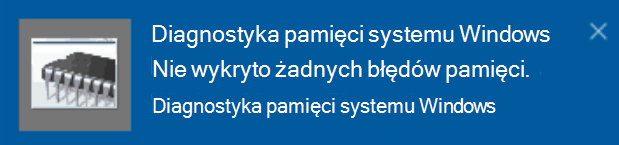
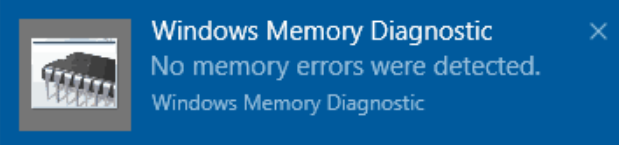
commit translated contents

Changed region(s): [[0.2456, 0.1379, 0.8901, 0.331], [0.2456, 0.3586, 0.8901, 0.5793], [0.2456, 0.6345, 0.7981, 0.8276]]

diff --git a/AlchemyInsights/sharepoint-profile-picture-sync.md b/AlchemyInsights/sharepoint-profile-picture-sync.md
@@ -11,24 +11,24 @@ ms.assetid: 6b695be8-eaf5-44ff-b0ae-1e0d89e7ab36
 ms.custom:
 - "1828"
 - "9000231"
-ms.openlocfilehash: 9ee728fa9eefc882d220d8484c8c92d4d8c9af4d
-ms.sourcegitcommit: c6692ce0fa1358ec3529e59ca0ecdfdea4cdc759
+ms.openlocfilehash: 5d07d8e9206b4b7d0756277409d48b0cd299e5cf0fd7261e6c0ad75dfe8648f1
+ms.sourcegitcommit: b5f7da89a650d2915dc652449623c78be6247175
 ms.translationtype: MT
 ms.contentlocale: pl-PL
-ms.lasthandoff: 09/15/2020
-ms.locfileid: "47770597"
+ms.lasthandoff: 08/05/2021
+ms.locfileid: "53957443"
 ---
-# <a name="when-do-my-profile-changes-sync-to-the-sharepoint-user-profile-application"></a>Kiedy zmiany w profilu są synchronizowane z aplikacją profilu użytkownika programu SharePoint?
+# <a name="when-do-my-profile-changes-sync-to-the-sharepoint-user-profile-application"></a>Kiedy mój profil zmieni się na zsynchronizowany z aplikacją SharePoint profilu użytkownika?
 
-Synchronizacja obrazów profilu w usłudze SharePoint Online wymaga wykonania czynności użytkownika w celu rozpoczęcia synchronizacji zdjęcia. Nie istnieje automatyczna synchronizacja zdjęć z usługą SharePoint Online. Usługa SharePoint Online synchronizuje tylko zdjęcia z usługi Exchange Online, a nie usługi Azure Active Directory.
+Synchronizacja obrazów profilu SharePoint w trybie online wymaga działania użytkownika w celu zainicjowania synchronizacji jego zdjęcia. Nie ma automatycznej synchronizacji zdjęć z usługą SharePoint Online. SharePoint Aplikacja Online synchronizuje tylko zdjęcia z Exchange Online, a nie Azure Active Directory.
 
-Jeśli użytkownik nigdy nie wykonał akcji, która może monitować o zsynchronizowanie lub zaktualizował swój obraz profilu, a nowy plik nie jest wyświetlany w usłudze SharePoint Online, może być konieczne wyświetlenie monitu o zsynchronizowanie. Można to zrobić w następujący sposób:
+Jeśli użytkownik nigdy nie wykonał akcji, która spowoduje monitowanie o synchronizację lub zaktualizował swoje zdjęcie profilowe, a nowy obraz nie jest wyświetlany w aplikacji SharePoint Online, może być konieczne jego monit o zsynchronizowanie. Oto, jak mogą to zrobić:
 
-1. Otwórz przeglądarkę internetową w sesji w trybie online lub incognito, a następnie [Przejdź do Office.com](https://www.office.com/).
+1. Otwórz przeglądarkę internetową w sesji In-Private lub incognito i przejdź do [witryny Office.com.](https://www.office.com/)
 
-2. Zaloguj się przy użyciu konta służbowego i kliknij kafelek OneDrive lub SharePoint.
+2. Zaloguj się za pomocą konta służbowego i kliknij kafelek numer OneDrive lub SharePoint służbowego.
 
-3. [Dodaj swoje zdjęcie profilu do programu Microsoft 365](https://support.office.com/article/Add-your-profile-photo-to-Office-365-2eaf93fd-b3f1-43b9-9cdc-bdcd548435b7).
+3. [Dodaj zdjęcie profilowe do Microsoft 365](https://support.office.com/article/Add-your-profile-photo-to-Office-365-2eaf93fd-b3f1-43b9-9cdc-bdcd548435b7).
 
 [Informacje o synchronizacji obrazów profilu w programie Microsoft 365](https://support.office.com/article/Information-about-user-profile-synchronization-in-SharePoint-Online-177eb196-5887-43c9-84c3-b98a43d35129)
 

diff --git a/AlchemyInsights/sharepoint-onedrive-sync-files-mac.md b/AlchemyInsights/sharepoint-onedrive-sync-files-mac.md
@@ -1,5 +1,5 @@
 ---
-title: Instalowanie, Konfigurowanie i synchronizowanie plików usługi OneDrive lub programu SharePoint na komputerze Mac
+title: Instalowanie, konfigurowanie i synchronizowanie plików OneDrive i SharePoint na komputerze Mac
 ms.author: pebaum
 author: pebaum
 ms.date: 04/21/2020
@@ -9,21 +9,21 @@ ms.service: o365-administration
 ROBOTS: NOINDEX, NOFOLLOW
 localization_priority: Normal
 ms.assetid: 89b29dd9-edfe-49a4-84eb-5dc270d64526
-ms.openlocfilehash: 6ad860d51d2ce82c7500a663f83234a2961f08b2
-ms.sourcegitcommit: c6692ce0fa1358ec3529e59ca0ecdfdea4cdc759
+ms.openlocfilehash: 9e40f43435a069e150bc95976f8c04a09fa60244cad268f283f326c1df363704
+ms.sourcegitcommit: b5f7da89a650d2915dc652449623c78be6247175
 ms.translationtype: MT
 ms.contentlocale: pl-PL
-ms.lasthandoff: 09/14/2020
-ms.locfileid: "47665548"
+ms.lasthandoff: 08/05/2021
+ms.locfileid: "53957515"
 ---
-# <a name="install-setup-and-sync-onedrive-or-sharepoint-files-on-mac"></a>Instalowanie, Konfigurowanie i synchronizowanie plików usługi OneDrive lub programu SharePoint na komputerze Mac 
+# <a name="install-setup-and-sync-onedrive-or-sharepoint-files-on-mac"></a>Instalowanie, konfigurowanie i synchronizowanie plików OneDrive i SharePoint na komputerze Mac 
 
-Instalowanie, Konfigurowanie i synchronizowanie plików usługi OneDrive lub programu SharePoint na komputerze Mac za pomocą instrukcji z [synchronizowania plików za pomocą klienta synchronizacji usługi OneDrive w systemie Mac OS X](https://support.office.com/article/sync-files-with-the-onedrive-sync-client-on-mac-os-x-d11b9f29-00bb-4172-be39-997da46f913f).
+Zainstaluj, skonfiguruj i synchronizuj OneDrive lub SharePoint na komputerze Mac, zgodnie z instrukcjami z tematu Synchronizowanie plików za pomocą klienta synchronizacja usługi OneDrive systemu [Mac OS X.](https://support.office.com/article/sync-files-with-the-onedrive-sync-client-on-mac-os-x-d11b9f29-00bb-4172-be39-997da46f913f)
 
-Jeśli aplikacja OneDrive jest zainstalowana i skonfigurowana na komputerze Mac, ale użytkownicy napotykają problemy z synchronizacją, zobacz [Rozwiązywanie problemów z synchronizacją w usłudze OneDrive (Mac)](https://support.office.com/article/fix-onedrive-sync-problems-on-a-mac-af3012d7-13ec-4ac9-bbb1-ebcd2a0cd756).
+Jeśli aplikacja OneDrive zainstalowana i zainstalowana na komputerze Mac, ale użytkownicy mają problemy z synchronizacją, zobacz Rozwiązywanie problemów z synchronizacją w [programie OneDrive (Mac).](https://support.office.com/article/fix-onedrive-sync-problems-on-a-mac-af3012d7-13ec-4ac9-bbb1-ebcd2a0cd756)
 
 > [!NOTE]
-> Funkcja przenoszenia znanych folderów w usłudze OneDrive dla systemu Windows jest niedostępna dla komputerów Mac.
+> Funkcja Przenoszenie znanego folderu w programie synchronizacja usługi OneDrive for Windows nie jest dostępna dla komputerów Mac.
 
 
 

diff --git a/AlchemyInsights/find-lost-or-missing-files-in-onedrive-or-sharepoint.md b/AlchemyInsights/find-lost-or-missing-files-in-onedrive-or-sharepoint.md
@@ -1,5 +1,5 @@
 ---
-title: Znajdowanie utraconych lub brakujących plików w usłudze OneDrive lub programie SharePoint
+title: Znajdowanie utraconych lub brakujących plików w OneDrive lub SharePoint
 ms.author: matteva
 author: pebaum
 manager: scotv
@@ -12,21 +12,21 @@ localization_priority: Normal
 ms.collection: Adm_O365
 ms.custom: ''
 ms.assetid: d4de6b5e-5102-4e2c-af92-1f8b049c3a02
-ms.openlocfilehash: aa0cd1e4d5e89b9fb601c37030440bdfd2b66260
-ms.sourcegitcommit: 0eb4f9bde53395b5fd4b5cd4ffc56ca96db91298
+ms.openlocfilehash: b82e3f14fa61ed9b439aa2991be18cf7a064c4a20a02f914176b1afe6eb0f83b
+ms.sourcegitcommit: b5f7da89a650d2915dc652449623c78be6247175
 ms.translationtype: MT
 ms.contentlocale: pl-PL
-ms.lasthandoff: 03/10/2021
-ms.locfileid: "50708432"
+ms.lasthandoff: 08/05/2021
+ms.locfileid: "53977379"
 ---
-# <a name="find-lost-or-missing-files-in-onedrive-or-sharepoint"></a>Znajdowanie utraconych lub brakujących plików w usłudze OneDrive lub programie SharePoint
+# <a name="find-lost-or-missing-files-in-onedrive-or-sharepoint"></a>Znajdowanie utraconych lub brakujących plików w OneDrive lub SharePoint
 
-- Sprawdź Kosz, przeglądając usługę OneDrive lub witrynę programu SharePoint w sieci Web i klikając Pozycję Kosz w okienku po lewej stronie. (Jeśli Kosz nie jest wyświetlony w okienku po lewej stronie, kliknij ikonę Ustawienia, a następnie wybierz **pozycję Zawartość witryny.** **Kosz znajduje** się po prawej stronie paska poleceń u góry). 
+- Sprawdź Kosz, przeglądając zawartość OneDrive lub witryny SharePoint w sieci Web, a następnie klikając pozycję Kosz w okienku po lewej stronie. (Jeśli w okienku po lewej stronie nie widzisz kosza, kliknij ikonę kosza Ustawienia a następnie wybierz **pozycję Zawartość witryny**. **Kosz znajduje** się po prawej stronie paska poleceń u góry). 
     
 - Jeśli synchronizujesz pliki na komputerze, sprawdź Kosz na komputerze. 
     
 - Jeśli nie widzisz elementu, którego szukasz, a został on ostatnio usunięty, administrator zbioru witryn może go przywrócić z Kosza zbioru witryn. Jeśli jesteś administratorem zbioru witryn, zobacz Przywracanie usuniętych elementów [z Kosza zbioru witryn.](https://support.microsoft.com/office/restore-items-in-the-recycle-bin-that-were-deleted-from-sharepoint-or-teams-6df466b6-55f2-4898-8d6e-c0dff851a0be)
     
-[Więcej pomocy dotyczącej przywracania usuniętych plików i folderów w usłudze OneDrive](https://go.microsoft.com/fwlink/?linkid=872872)
+[Więcej pomocy dotyczącej przywracania usuniętych plików i folderów w OneDrive](https://go.microsoft.com/fwlink/?linkid=872872)
   
 

diff --git a/AlchemyInsights/external-user-cannot-access-content.md b/AlchemyInsights/external-user-cannot-access-content.md
@@ -12,17 +12,17 @@ ms.assetid: ''
 ms.custom:
 - "9000191"
 - "2382"
-ms.openlocfilehash: 70ae38749bde631000d373a981de2bd1be50084b
-ms.sourcegitcommit: c6692ce0fa1358ec3529e59ca0ecdfdea4cdc759
+ms.openlocfilehash: 6868d8238aa376cace020950490de22ea0fc26d05b8308bfc4d9e5f1fc992bf2
+ms.sourcegitcommit: b5f7da89a650d2915dc652449623c78be6247175
 ms.translationtype: MT
 ms.contentlocale: pl-PL
-ms.lasthandoff: 09/14/2020
-ms.locfileid: "47708621"
+ms.lasthandoff: 08/05/2021
+ms.locfileid: "53977667"
 ---
-# <a name="external-user-cannot-access-sharepoint-or-onedrive-content"></a>Użytkownik zewnętrzny nie może uzyskać dostępu do zawartości programu SharePoint ani usługi OneDrive
+# <a name="external-user-cannot-access-sharepoint-or-onedrive-content"></a>Użytkownik zewnętrzny nie może uzyskać SharePoint ani OneDrive zawartości
 
-Jeśli użytkownik został zaproszony i nie może uzyskać dostępu do zawartości, Skorzystaj z poniższych linków:
+Jeśli zaproszono użytkownika zewnętrznego, który nie może uzyskać dostępu do zawartości, spróbuj użyć poniższych linków:
 
 - [Użytkownicy zewnętrzni otrzymują błędy uprawnień podczas uzyskiwania dostępu do witryny](https://docs.microsoft.com/sharepoint/support/administration/access-denied-or-need-permission-error-sharepoint-online-or-onedrive-for-business)
-- [Błąd "zasady Twojej organizacji nie zezwalają na udostępnianie danych użytkownikom" podczas udostępniania elementu lub witryny w usłudze SharePoint Online lub OneDrive dla firm](https://docs.microsoft.com/sharepoint/support/administration/organization-policies-do-not-allow-you-to-share-with-users-error)
-- [Opcje udostępniania są wyszarzone podczas udostępniania z usługi SharePoint Online lub OneDrive](https://docs.microsoft.com/sharepoint/support/administration/sharing-options-grayed-out-when-sharing-from-sharepoint-online-or-onedrive)
+- [Błąd "Zasady organizacji nie umożliwiają udostępniania tym użytkownikom" podczas udostępniania elementu lub witryny w witrynie usługi SharePoint Online lub OneDrive dla Firm](https://docs.microsoft.com/sharepoint/support/administration/organization-policies-do-not-allow-you-to-share-with-users-error)
+- [Opcje udostępniania są wyszarowane podczas udostępniania z usługi SharePoint Online lub OneDrive](https://docs.microsoft.com/sharepoint/support/administration/sharing-options-grayed-out-when-sharing-from-sharepoint-online-or-onedrive)

diff --git a/AlchemyInsights/commercial-dialogues/recall-or-replace-an-email-message.md b/AlchemyInsights/commercial-dialogues/recall-or-replace-an-email-message.md
@@ -12,20 +12,20 @@ ms.collection: Adm_O365
 ms.custom:
 - "9000260"
 - "7257"
-ms.openlocfilehash: 46e491c51cdceaf8b46e97fbec2754f94d7ee66e
-ms.sourcegitcommit: 6312ee31561db36104f32282d019d069ede69174
+ms.openlocfilehash: b1a5ca296c62956ef0a8a95ed8ea9c967d268bcedb9cd5122b39a9678ba1f152
+ms.sourcegitcommit: b5f7da89a650d2915dc652449623c78be6247175
 ms.translationtype: MT
 ms.contentlocale: pl-PL
-ms.lasthandoff: 03/11/2021
-ms.locfileid: "50750085"
+ms.lasthandoff: 08/05/2021
+ms.locfileid: "53967199"
 ---
 # <a name="recall-or-replace-email-message"></a>Odwoływanie lub zamienianie wiadomości e-mail
 
 Możesz odwołać lub zamienić tylko wiadomości wysyłane na adresy w Twojej organizacji. Nie można na przykład odwołać wiadomości wysłanych na adres usługi Gmail.
 
-1. W okienku folderów po lewej stronie okna programu Outlook wybierz folder **Elementy** wysłane.
+1. W okienku folderów po lewej stronie Outlook wybierz folder **Elementy** wysłane.
 2. Otwórz wiadomość, którą chcesz odwołać. Należy kliknąć dwukrotnie, aby otworzyć wiadomość. Zaznaczenie wiadomości w celu jej zaznaczenia w okienku odczytu nie umożliwia jej odwołania.
 3. Na karcie **Wiadomość** wybierz pozycję **Akcje**  >  **odwołaj tę wiadomość.**
 4. Kliknij **pozycję Usuń nieprzeczytane kopie** tej wiadomości lub Usuń **nieprzeczytane kopie** i zamień je na nową wiadomość, a następnie kliknij przycisk **OK.**
 5. Jeśli wysyłasz wiadomość zastępczą, zredagotuj wiadomość, a następnie kliknij pozycję **Wyślij**.
-6. Skuteczność odwołania wiadomości lub jej niepowodzenia zależy od ustawień adresatów w programie Outlook. Instrukcje sprawdzania odwołania można znaleźć [w tym artykule.](https://support.office.com/article/recall-or-replace-an-email-message-that-you-sent-35027f88-d655-4554-b4f8-6c0729a723a0#tocheck)
+6. Skuteczność odwołania wiadomości jest uzależniona od ustawień adresata w programie Outlook. Instrukcje sprawdzania odwołania można znaleźć [w tym artykule.](https://support.office.com/article/recall-or-replace-an-email-message-that-you-sent-35027f88-d655-4554-b4f8-6c0729a723a0#tocheck)

diff --git a/AlchemyInsights/delete-site-collection-in-SharePoint.md b/AlchemyInsights/delete-site-collection-in-SharePoint.md
@@ -9,24 +9,24 @@ ms.service: o365-administration
 ROBOTS: NOINDEX, NOFOLLOW
 localization_priority: Normal
 ms.assetid: ''
-ms.openlocfilehash: 7bb2110898e8b5b9aa9a73fb04698f759b5959b4
-ms.sourcegitcommit: c6692ce0fa1358ec3529e59ca0ecdfdea4cdc759
+ms.openlocfilehash: 67d87d45af15ff2e08c585f952994fbc60c3b840f92587170c45ab3c9b53c6e2
+ms.sourcegitcommit: b5f7da89a650d2915dc652449623c78be6247175
 ms.translationtype: MT
 ms.contentlocale: pl-PL
-ms.lasthandoff: 09/14/2020
-ms.locfileid: "47731069"
+ms.lasthandoff: 08/05/2021
+ms.locfileid: "53948173"
 ---
 # <a name="delete-a-site"></a>Usuwanie witryny
 
-Usunięte witryny są przenoszone do witryn usuniętych i są zachowywane przez 93 dni. Aby usunąć witrynę, przejdź do obszaru [aktywne witryny](https://admin.microsoft.com/sharepoint?page=sitemanagement&modern=true). 
+Po usunięciu witryna jest przenoszony do folderu Usunięte witryny i jest zachowywana przez 93 dni. Aby usunąć witrynę, przejdź do strony [Aktywne witryny.](https://admin.microsoft.com/sharepoint?page=sitemanagement&modern=true) 
 
-Usunięcie witryny powoduje usunięcie wszystkich elementów, w tym:
+Usunięcie witryny powoduje usunięcie jej wszystkich elementów, w tym:
 
 - Biblioteki dokumentów i pliki.
-- Listy i dane list.
+- Listy i dane listy.
 - Ustawienia i historia witryny.
-- Wszystkie podwitryny i ich zawartość.
+- Wszelkie podwiterwny i ich zawartość.
 
-Przed usunięciem witryny należy powiadomić administratorów witryn i wszystkich jej właścicieli witryn, aby mogli przenosić ich dane do innej lokalizacji, a także poinformowanić użytkowników, że witryny zostaną usunięte.
+Przed usunięciem witryny należy powiadomić administratorów i wszystkich właścicieli podwiter, aby mieli możliwość przeniesienia danych do innej lokalizacji oraz powiadom użytkowników, kiedy witryny zostaną usunięte.
 
-Aby uzyskać więcej informacji, zobacz [usuwanie witryny](https://docs.microsoft.com/sharepoint/delete-site-collection).
+Aby uzyskać więcej informacji, [zobacz Usuwanie witryny.](https://docs.microsoft.com/sharepoint/delete-site-collection)

diff --git a/AlchemyInsights/external-sharing-with-a-team-site.md b/AlchemyInsights/external-sharing-with-a-team-site.md
@@ -9,25 +9,25 @@ ms.service: o365-administration
 ROBOTS: NOINDEX, NOFOLLOW
 localization_priority: Normal
 ms.assetid: 22a229b6-b18a-43a8-9868-b32be87bc09e
-ms.openlocfilehash: 0f5d72493c219ebc007d33d48246e0fd009c6644
-ms.sourcegitcommit: c6692ce0fa1358ec3529e59ca0ecdfdea4cdc759
+ms.openlocfilehash: fac10d862611cab95933576fde59bdaf1eb58e572d6781b087c48d2c332e205d
+ms.sourcegitcommit: b5f7da89a650d2915dc652449623c78be6247175
 ms.translationtype: MT
 ms.contentlocale: pl-PL
-ms.lasthandoff: 09/14/2020
-ms.locfileid: "47708477"
+ms.lasthandoff: 08/05/2021
+ms.locfileid: "53977703"
 ---
 # <a name="external-sharing-with-a-team-site"></a>Udostępnianie zewnętrzne w witrynie zespołu
 
-Aby włączyć udostępnianie zewnętrznego użytkownika dla witryn zespołu, wykonaj następujące czynności: 
+Aby włączyć udostępnianie witryn zespołu użytkownikom zewnętrznym, wykonaj następujące czynności: 
   
-1. W nowym centrum administracyjnym programu SharePoint kliknij pozycję **aktywne witryny**.
+1. W nowym centrum SharePoint administracyjnego kliknij pozycję **Aktywne witryny**.
   
-2. Wybierz witrynę zawierającą szablon **witryny zespołu** . 
+2. Wybierz witrynę, która zawiera **szablon Witryna** zespołu. 
   
-3. Wybierz przycisk **udostępniania** z menu u. 
+3. Wybierz przycisk **Udostępnianie** w menu u góry. 
   
- **Uwaga**: domyślnie podczas tworzenia nowoczesnej witryny zespołu opcja udostępniania zewnętrznego zostanie ustawiona na nowy i istniejący użytkownik zewnętrzny. 
+ **Uwaga:** Po utworzeniu nowoczesnej witryny zespołu opcja udostępniania zewnętrznego będzie domyślnie ustawiona na wartość Nowi i istniejący użytkownicy zewnętrzni. 
   
- **Uwaga:** Jeśli została wybrana więcej niż jedna witryna, przycisk **udostępniania** będzie wyświetlany jako wyłączony. Wybierz tylko jedną witrynę. 
+ **Uwaga:** Jeśli wybrano więcej niż jedną witrynę, **przycisk** Udostępnianie będzie wyłączony. Wybierz tylko jedną witrynę. 
   
 

diff --git a/AlchemyInsights/commercial-dialogues/onboard-a-windows-server-to-microsoft-defender-for-endpoint.md b/AlchemyInsights/commercial-dialogues/onboard-a-windows-server-to-microsoft-defender-for-endpoint.md
@@ -12,24 +12,24 @@ ms.collection: Adm_O365
 ms.custom:
 - "9000760"
 - "7391"
-ms.openlocfilehash: 51bcb58f20b9867d2b75db5ee9df1c62e8b66109
-ms.sourcegitcommit: 6312ee31561db36104f32282d019d069ede69174
+ms.openlocfilehash: 0772f67175053be2cb1e8eacece98fe68776e35800763526e3e6f4fd5375228c
+ms.sourcegitcommit: b5f7da89a650d2915dc652449623c78be6247175
 ms.translationtype: MT
 ms.contentlocale: pl-PL
-ms.lasthandoff: 03/11/2021
-ms.locfileid: "50750272"
+ms.lasthandoff: 08/05/2021
+ms.locfileid: "53967523"
 ---
 # <a name="onboard-a-windows-server-to-microsoft-defender-for-endpoint"></a>Onboard a Windows server to Microsoft Defender for Endpoint
 
-W przypadku systemu operacyjnego Windows Server program Microsoft Defender for Endpoint oferuje zaawansowane możliwości wykrywania i badania ataków. Te funkcje są udostępniane bezproblemowo za pośrednictwem konsoli Microsoft Defender Security Center.
+W przypadku systemu Windows Server program Microsoft Defender for Endpoint oferuje zaawansowane możliwości wykrywania i badania ataków. Te funkcje są zapewniane bezproblemowo za pośrednictwem Centrum zabezpieczeń usługi Microsoft Defender urządzenia.
 
-Program Defender for Endpoint obsługuje następujące wersje systemu Windows Server:
+Program Defender for Endpoint obsługuje następujące wersje programu Windows Server:
 
-- Windows Server 2008 R2 SP1
+- Windows Server 2008 R2 z dodatkiem SP1
 - Windows Server 2012 R2
 - Windows Server 2016
 - Windows Server (FTP) w wersji 1803 i nowszej
-- Windows Server 2019 lub nowszy
+- Windows Server 2019 i nowsze
 - Windows Server 2019 Core Edition
 
-Aby dowiedzieć się więcej, [zobacz:Na urządzeniach z systemem Windows do usługi Programu Microsoft Defender for Endpoint.](https://go.microsoft.com/fwlink/?linkid=2143627)
+Aby dowiedzieć się więcej, zobacz [Windows na serwerze programu Microsoft Defender dla punktu końcowego.](https://go.microsoft.com/fwlink/?linkid=2143627)

diff --git a/AlchemyInsights/delete-a-user-and-remove-licenses.md b/AlchemyInsights/delete-a-user-and-remove-licenses.md
@@ -1,5 +1,5 @@
 ---
-title: Usuwanie użytkowników i usuwanie licencji
+title: Usuwanie użytkownika i usuwanie licencji
 ms.author: v-aiyengar
 author: AshaIyengar21
 manager: dansimp
@@ -13,17 +13,17 @@ ms.collection: Adm_O365
 ms.custom:
 - "1500008"
 - "7438"
-ms.openlocfilehash: 1867556cc85a0f7ed0c7cdb22061a63d559fbb4b
-ms.sourcegitcommit: 62a83a1c6bd9779a1a11b749490bd11670d4b063
+ms.openlocfilehash: 7437a9b1ffd483244222c7bda192e25e76efc8088f3bf92facfb27ee5bf0e503
+ms.sourcegitcommit: b5f7da89a650d2915dc652449623c78be6247175
 ms.translationtype: MT
 ms.contentlocale: pl-PL
-ms.lasthandoff: 12/02/2020
-ms.locfileid: "49565039"
+ms.lasthandoff: 08/05/2021
+ms.locfileid: "53948236"
 ---
-# <a name="delete-a-user-and-remove-licenses"></a>Usuwanie użytkowników i usuwanie licencji
+# <a name="delete-a-user-and-remove-licenses"></a>Usuwanie użytkownika i usuwanie licencji
 
-Usunięcie użytkownika spowoduje również anulowanie przypisania licencji użytkowników, dzięki czemu będą one dostępne dla innych użytkowników. 
-1. W centrum administracyjnym przejdź do obszaru **użytkownicy** > aktywni użytkownicy.
-1. Wybierz użytkowników, których chcesz usunąć, i kliknij pozycję **Usuń użytkownika**.
+Usunięcie użytkownika spowoduje również nieprzypisanie licencji użytkowników, dzięki czemu będą one dostępne dla innych użytkowników. 
+1. W centrum administracyjnym przejdź do **pozycji** Użytkownicy > Aktywni użytkownicy.
+1. Zaznacz użytkownika lub użytkowników do usunięcia i kliknij **pozycję Usuń użytkownika**.
 
-Aby uzyskać więcej informacji, zobacz [Usuwanie użytkownika z organizacji](https://docs.microsoft.com/microsoft-365/admin/add-users/delete-a-user). 
+Aby uzyskać więcej informacji, [zobacz Usuwanie użytkownika z organizacji.](https://docs.microsoft.com/microsoft-365/admin/add-users/delete-a-user) 

diff --git a/AlchemyInsights/commercial-dialogues/questions-and-issues-with-resource-access.md b/AlchemyInsights/commercial-dialogues/questions-and-issues-with-resource-access.md
@@ -12,20 +12,20 @@ ms.collection: Adm_O365
 ms.custom:
 - "6700002"
 - "7680"
-ms.openlocfilehash: d5278cfcf607c0722e02c2ca3cf421e0d492a9b7
-ms.sourcegitcommit: 6312ee31561db36104f32282d019d069ede69174
+ms.openlocfilehash: db3140f94c6ab543133c29500552e529b0dc17b6d083cb729c5cf5857ffdbacf
+ms.sourcegitcommit: b5f7da89a650d2915dc652449623c78be6247175
 ms.translationtype: MT
 ms.contentlocale: pl-PL
-ms.lasthandoff: 03/11/2021
-ms.locfileid: "50750220"
+ms.lasthandoff: 08/05/2021
+ms.locfileid: "53967307"
 ---
 # <a name="questions-and-issues-with-resource-access"></a>Pytania i problemy dotyczące dostępu do zasobów
 
 Aby uzyskać informacje o typach profilów, usługa Intune umożliwia użytkownikom dostęp do infrastruktury i zasobów firmowych, zobacz:
 
-- [Dodawanie i używanie Wi-Fi na urządzeniach w usłudze Microsoft Intune](https://docs.microsoft.com/mem/intune/configuration/wi-fi-settings-configure)
+- [Dodawanie i używanie Wi-Fi na urządzeniach w aplikacji Microsoft Intune](https://docs.microsoft.com/mem/intune/configuration/wi-fi-settings-configure)
 - [Dodawanie ustawień poczty e-mail do urządzeń przy użyciu usługi Intune](https://docs.microsoft.com/mem/intune/configuration/email-settings-configure)
-- [Używanie certyfikatów do uwierzytelniania w usłudze Microsoft Intune](https://docs.microsoft.com/mem/intune/protect/certificates-configure)
+- [Używanie certyfikatów do uwierzytelniania w Microsoft Intune](https://docs.microsoft.com/mem/intune/protect/certificates-configure)
 - [Tworzenie profilów VPN w celu łączenia się z serwerami VPN w usłudze Intune](https://docs.microsoft.com/mem/intune/configuration/vpn-settings-configure)
 
 [Przeczytaj więcej...](https://docs.microsoft.com/mem/intune/configuration/device-profile-troubleshoot)

diff --git a/AlchemyInsights/sharepoint-online-user-profile-sync.md b/AlchemyInsights/sharepoint-online-user-profile-sync.md
@@ -1,5 +1,5 @@
 ---
-title: Synchronizacja profilu użytkownika usługi SharePoint Online
+title: SharePoint Synchronizacja profilów użytkowników w trybie online
 ms.author: pebaum
 author: pebaum
 manager: pamgreen
@@ -13,15 +13,15 @@ ms.collection: Adm_O365
 ms.custom:
 - "9003095"
 - "5848"
-ms.openlocfilehash: abb4b671091fee60fcf836acb15bc3dbdaac7b54
-ms.sourcegitcommit: c6692ce0fa1358ec3529e59ca0ecdfdea4cdc759
+ms.openlocfilehash: eb2c3a2c43a59882dab3f8035dd20e69579a46a7c8bde7badc80310a1ab57f6e
+ms.sourcegitcommit: b5f7da89a650d2915dc652449623c78be6247175
 ms.translationtype: MT
 ms.contentlocale: pl-PL
-ms.lasthandoff: 09/14/2020
-ms.locfileid: "47665368"
+ms.lasthandoff: 08/05/2021
+ms.locfileid: "53957479"
 ---
-# <a name="sharepoint-online-user-profile-synchronization"></a>Synchronizacja profilu użytkownika usługi SharePoint Online
+# <a name="sharepoint-online-user-profile-synchronization"></a>SharePoint Synchronizacja profilów użytkowników w trybie online
 
-Program Microsoft SharePoint używa zadania synchronizacji z usługą Active Directory do importowania informacji o atrybutach użytkowników i grup do aplikacji profilu użytkownika (dalszy).Aby uzyskać więcej informacji, zapoznaj się z poniższym artykułem.
+Program Microsoft SharePoint używa zadania synchronizacji usługi Active Directory do importowania informacji o atrybutach użytkowników i grupowania ich do aplikacji profilu użytkownika (UPA).Aby uzyskać więcej informacji, zobacz poniższy artykuł.
 
-- [Synchronizacja profilu użytkownika usługi SharePoint Online](https://docs.microsoft.com/sharepoint/user-profile-sync)
+- [SharePoint Synchronizacja profilów użytkowników w trybie online](https://docs.microsoft.com/sharepoint/user-profile-sync)

diff --git a/AlchemyInsights/delete-account-picture.md b/AlchemyInsights/delete-account-picture.md
@@ -12,20 +12,20 @@ ms.collection: Adm_O365
 ms.custom:
 - "3452"
 - "9001439"
-ms.openlocfilehash: c7baa3267d62ae1bef64b9f7c91b5f8aedfcbc8e
-ms.sourcegitcommit: 8bc60ec34bc1e40685e3976576e04a2623f63a7c
+ms.openlocfilehash: 1a9e3fe14e3cd2062b54a2443fdc6dd2f1a7bcccf79538fc439295ce43082149
+ms.sourcegitcommit: b5f7da89a650d2915dc652449623c78be6247175
 ms.translationtype: MT
 ms.contentlocale: pl-PL
-ms.lasthandoff: 04/15/2021
-ms.locfileid: "51815553"
+ms.lasthandoff: 08/05/2021
+ms.locfileid: "53948229"
 ---
-# <a name="delete-an-account-picture-in-windows-10"></a>Usuwanie obrazu konta w systemie Windows 10
+# <a name="delete-an-account-picture-in-windows-10"></a>Usuwanie obrazu konta w aplikacji Windows 10
 
-System Windows zaprojektowano tak, aby można było przełączać się między trzema najnowszymi obrazami. Jeśli chcesz usunąć jeden z obrazów swojego konta:
+Windows została zaprojektowana tak, aby można było przełączać się między trzema najnowszymi obrazami. Jeśli chcesz usunąć jeden z obrazów swojego konta:
 
 1. Otwórz Eksploratora plików z paska zadań. Jeśli nie widzisz Eksploratora plików (ikony folderu) na pasku zadań, wybierz pozycję **Start i** wpisz **Eksplorator plików**.
 
-2. Przejdź do folderu C:\Users \\ *nazwa użytkownika*\AppData\Roaming\Microsoft\Windows\AccountPictures. 
+2. Przejdź do folderu C:\Users \\ *swoją nazwę*\AppData\Roaming\Microsoft\Windows\AccountPictures. 
     - *Zamień swoją nazwę* na nazwę konta.
     - Jeśli nie możesz znaleźć folderu AppData w Eksploratorze plików, może on być ukryty. Wybierz ustawienie **Widok** i zaznacz pole wyboru **Ukryte** elementy, aby wyświetlić wszystkie elementy w folderze.
 
